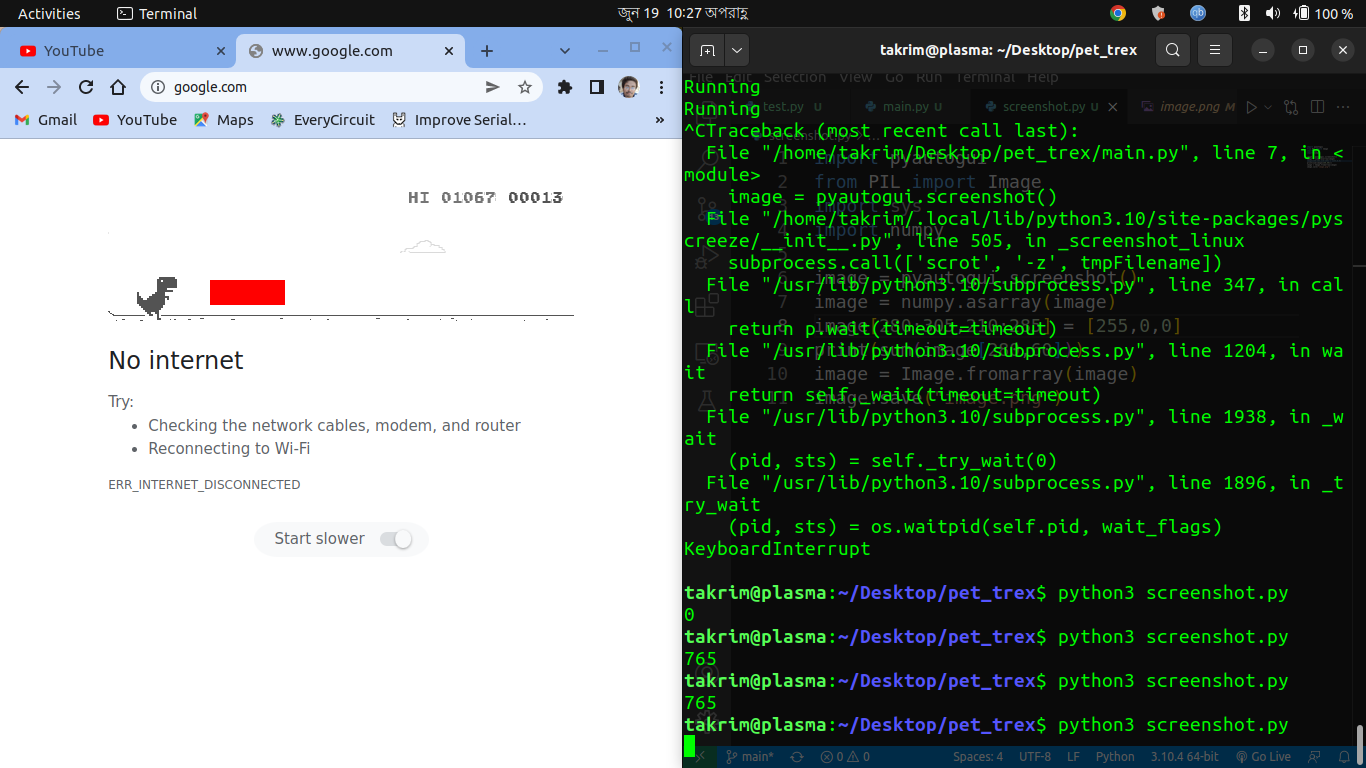
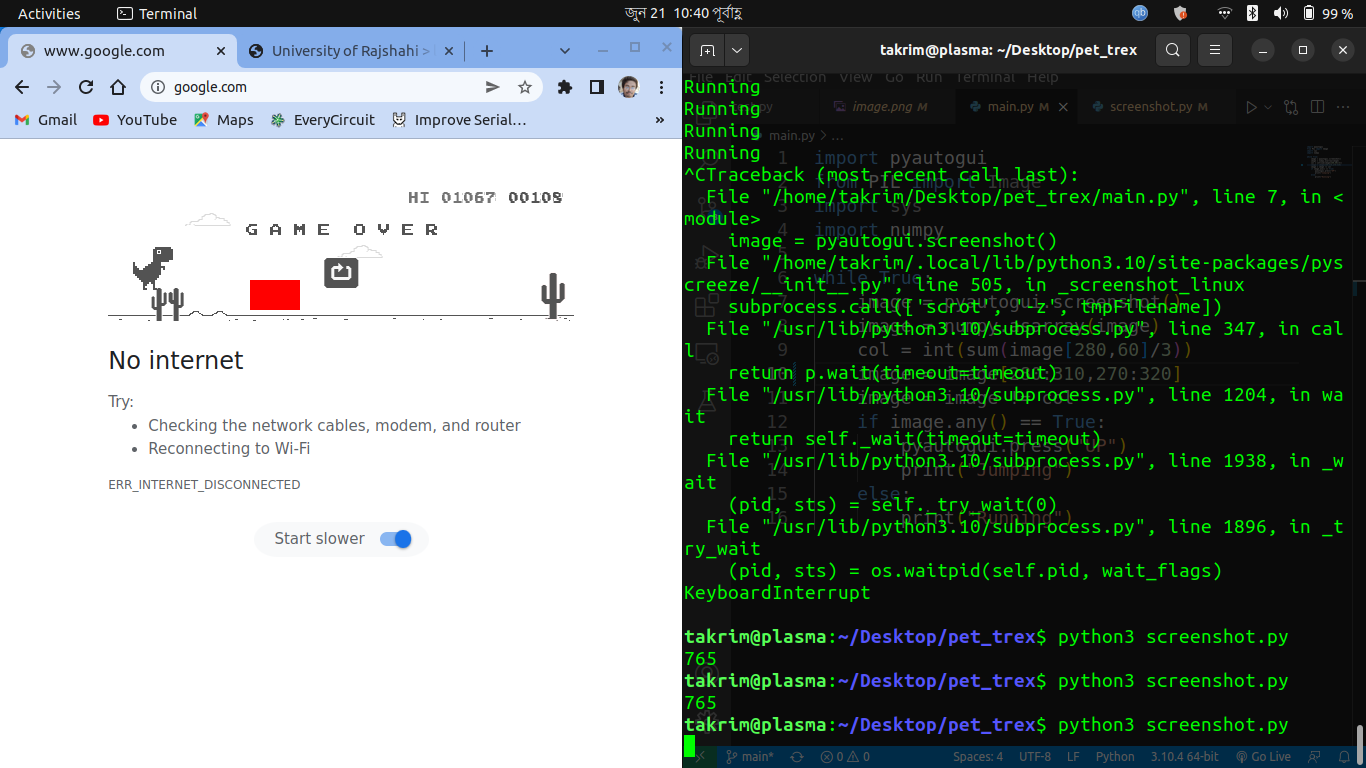
last modification before delete from local

diff --git a/main.py b/main.py
@@ -7,7 +7,7 @@ while True:
     image = pyautogui.screenshot()
     image = numpy.asarray(image)
     col = int(sum(image[280,60]/3))
-    image = image[280:305,210:285]
+    image = image[280:310,270:320]
     image = image != col  
     if image.any() == True:
         pyautogui.press("UP")

diff --git a/screenshot.py b/screenshot.py
@@ -5,7 +5,7 @@ import numpy
 
 image = pyautogui.screenshot()
 image = numpy.asarray(image)
-image[280:305,210:285] = [255,0,0]
+image[280:310,250:295] = [255,0,0]
 print(sum(image[280,60]))
 image = Image.fromarray(image)
 image.save("image.png")
